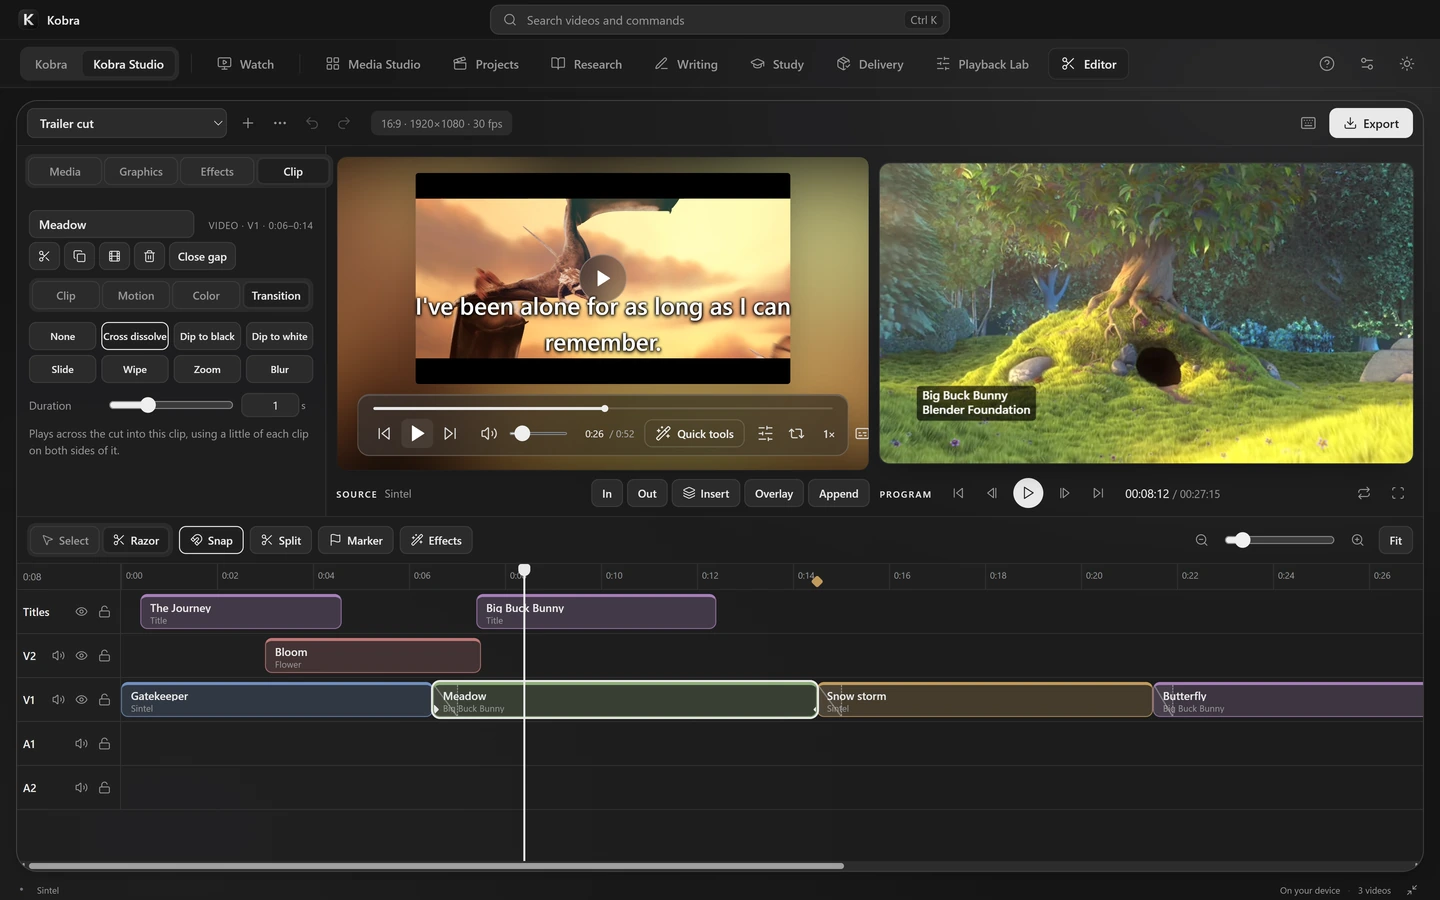
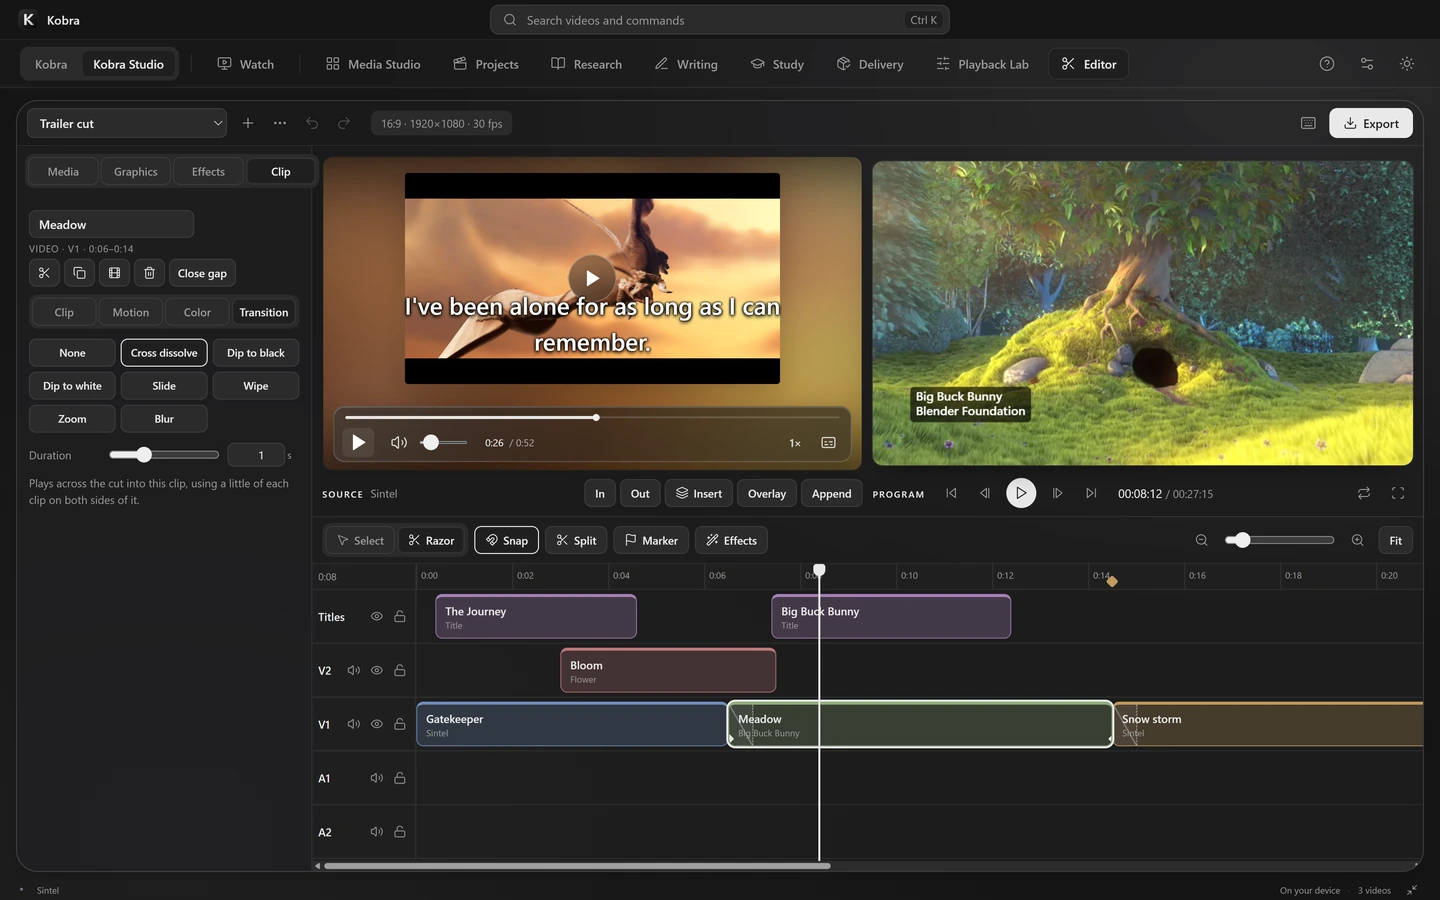
Fix the phone hero jumping and the screen tearing
- Phones resize the viewport's height whenever the address bar
  shows or hides mid-scroll. The resize re-anchoring from the last
  sweep treated that as a layout change and scrolled the page back,
  fighting the finger, so the hero monitor jumped back and forth.
  Only a width change (a real layout change, such as rotating)
  re-anchors now.
- The 3D screen sat 0.005 units in front of the black glass with a
  0.1-200 depth range, so phones' lower-precision depth buffers let
  one triangle of the screen lose to the glass (a diagonal tear).
  The depth range now hugs the model and the screen has a polygon
  offset.
- The Editor section's captures and highlight regions follow the
  app's new Editor layout (panels at full height on the left).

diff --git a/src/scene.ts b/src/scene.ts
@@ -72,7 +72,9 @@ export async function createHeroScene(host: HTMLElement, textureUrl: (theme: The
 
   const metal = new THREE.MeshPhysicalMaterial({ metalness: 1, clearcoat: .25, clearcoatRoughness: .4 });
   const glassMaterial = new THREE.MeshPhysicalMaterial({ color: 0x050506, roughness: .1, metalness: 0, clearcoat: 1, clearcoatRoughness: .04 });
-  const screenMaterial = new THREE.MeshBasicMaterial({ map: screenTexture, toneMapped: false });
+  // The screen sits a hair in front of the black glass; a polygon offset keeps it winning the depth
+  // test on phones' lower-precision depth buffers (otherwise one triangle can lose to the glass).
+  const screenMaterial = new THREE.MeshBasicMaterial({ map: screenTexture, toneMapped: false, polygonOffset: true, polygonOffsetFactor: -2, polygonOffsetUnits: -8 });
   const sheenTexture = gradientTexture((context, size) => {
     const gradient = context.createLinearGradient(0, 0, size, size);
     gradient.addColorStop(0, 'rgba(255,255,255,0)'); gradient.addColorStop(.42, 'rgba(255,255,255,.0)');
@@ -154,6 +156,9 @@ export async function createHeroScene(host: HTMLElement, textureUrl: (theme: The
     const distance = midDistance * (1 - dolly * (1 - 1 / framing.cover));
     const lift = (1 - rise) * framing.startDy * (2 * midDistance * T / framing.vh);
     camera.position.set(0, lift, distance);
+    // A depth range just around the model (about 16 x 13 x 5 units) gives the depth buffer its full precision.
+    const near = Math.max(.5, distance - 14), far = distance + 14;
+    if (camera.near !== near || camera.far !== far) { camera.near = near; camera.far = far; camera.updateProjectionMatrix(); }
     camera.lookAt(0, lift, 0);
     const turn = 1 - rise;
     model.rotation.set(turn * .07 + lookY * .06, -turn * .62 + lookX * .1, turn * .02);

diff --git a/src/scroll.ts b/src/scroll.ts
@@ -28,6 +28,9 @@ let frame = 0, stale = true;
 // Pinned sections are sized in viewport units, so a resize moves every scroll position.
 // The pinned scene being read is remembered before the resize and its progress restored.
 let anchor: { scene: Scene; progress: number } | null = null;
+// Phones resize the viewport's height whenever the address bar shows or hides during a scroll;
+// only a width change is a real layout change worth re-anchoring (scrolling back would fight the finger).
+let anchorWidth = innerWidth;
 
 export function onScroll(element: Element, kind: Kind, update: Scene['update'], options: Options = {}) {
   scenes.push({ element, kind, update, last: NaN, ...options });
@@ -71,7 +74,9 @@ function run() {
 window.addEventListener('scroll', schedule, { passive: true });
 window.addEventListener('resize', () => {
   // Resize events run before this frame's scroll events, so `last` is still the old progress.
-  if (!anchor) {
+  const widthChanged = innerWidth !== anchorWidth;
+  anchorWidth = innerWidth;
+  if (widthChanged && !anchor) {
     const scene = scenes.find(item => item.kind === 'pin' && item.last > 0 && item.last < 1);
     if (scene) anchor = { scene, progress: scene.last };
   }

diff --git a/src/editor.ts b/src/editor.ts
@@ -6,9 +6,9 @@ import { clamp, motion, onScroll, range } from './scroll';
 // recorded by the app's site capture (electron/review-site.cjs -> captures/editor-rects.json).
 type Rect = [number, number, number, number];
 const WINDOW = [1440, 900];
-const SOURCE: Rect = [337, 157, 531, 313], PROGRAM: Rect = [875, 146, 548, 329], TIMELINE: Rect = [17, 516, 1406, 355];
-const SIDE: Rect = [17, 146, 309, 370], TRACKS: Rect = [17, 586, 1406, 136], TOOLS: Rect = [17, 517, 470, 47];
-const MEADOW: Rect = [433, 682, 384, 35], SHAPE: Rect = [109, 366, 194, 34], EXPORT: Rect = [1021, 151, 390, 566];
+const SOURCE: Rect = [323, 157, 538, 313], PROGRAM: Rect = [868, 146, 555, 329], TIMELINE: Rect = [312, 516, 1111, 355];
+const SIDE: Rect = [17, 146, 295, 725], TRACKS: Rect = [312, 588, 1111, 166], TOOLS: Rect = [312, 517, 470, 47];
+const MEADOW: Rect = [728, 702, 384, 45], SHAPE: Rect = [109, 366, 190, 34], EXPORT: Rect = [1021, 151, 390, 566];
 const BEATS: { shot: string; rect: Rect }[][] = [
   [{ shot: 'editor', rect: SOURCE }, { shot: 'editor', rect: PROGRAM }, { shot: 'editor', rect: TIMELINE }],
   [{ shot: 'editor-layers', rect: TRACKS }, { shot: 'editor-layers', rect: SIDE }],
